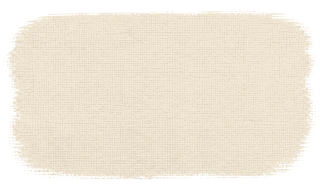
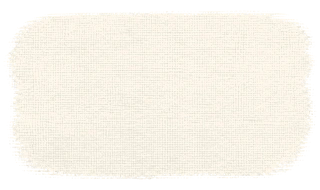
Fix three things from the preview: palm, plaque contrast, tab shift
The palm mask shipped as the wrong variant — the one with the canopy arches
left hollow while the leaf and trunk were filled, which is the mismatch that
was rejected. It is now the agreed drawing: all four of the shipped icon's
paths filled, canopy and drooping frond overlapping as they do today.

The cream plaque sat about two percent of luminance off the page ground, so a
card had no edge you could find. Its recolour target moves up to #f9f3e7,
a 1.23 contrast step, and a card now reads as paper laid on the ground.

Switching lanes nudged both tab labels sideways. The settled check was
rendered only on the inactive tab, so selecting one changed the other's
content width and both labels re-centred. It stays mounted now and is merely
hidden when active, which holds the layout still. Predates this branch.

Changed region(s): [[0.0312, 0.0789, 0.9688, 0.9474]]

diff --git a/frontend/src/components/SeasonRecord.tsx b/frontend/src/components/SeasonRecord.tsx
@@ -90,11 +90,14 @@ export function RecordBeats({
           >
             <span className="lane-tab__icon" aria-hidden="true">{LANE_ICON[b.key]()}</span>
             <span className="truncate">{b.label}</span>
-            {b.done && !active && (
+            {/* Kept mounted and merely hidden on the active tab: unmounting it
+                changed the tab's content width, so switching lanes nudged both
+                labels sideways (#552 preview feedback). */}
+            {b.done && (
               <svg
                 aria-hidden="true"
                 viewBox="0 0 16 16"
-                className="h-3.5 w-3.5 flex-none text-jade-600"
+                className={`h-3.5 w-3.5 flex-none text-jade-600 ${active ? 'invisible' : ''}`}
                 fill="none"
                 stroke="currentColor"
                 strokeWidth="2.25"
